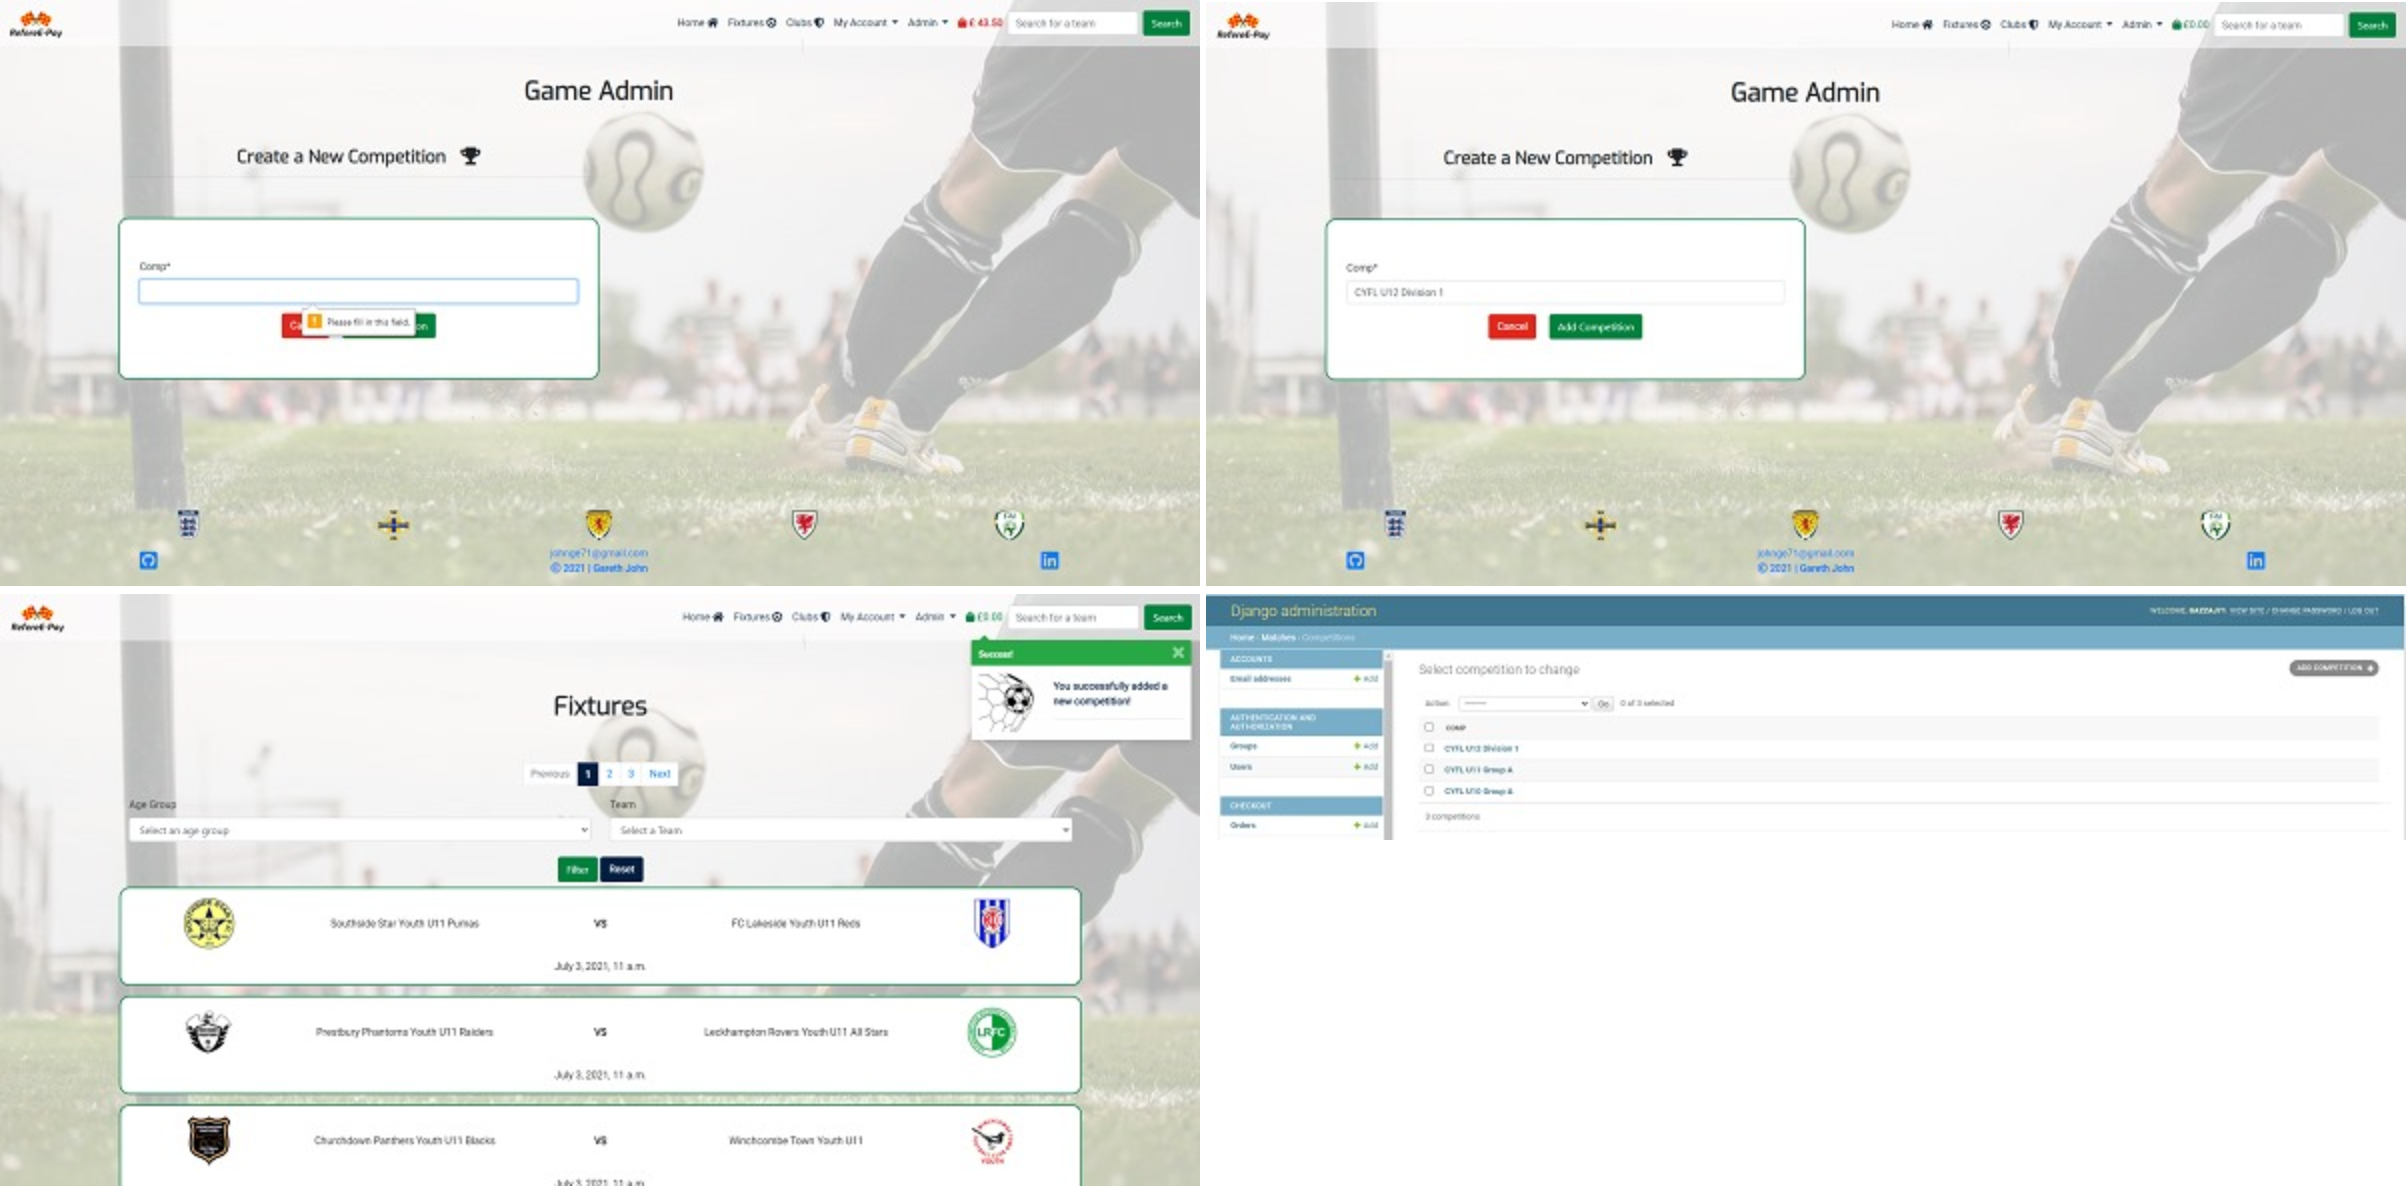
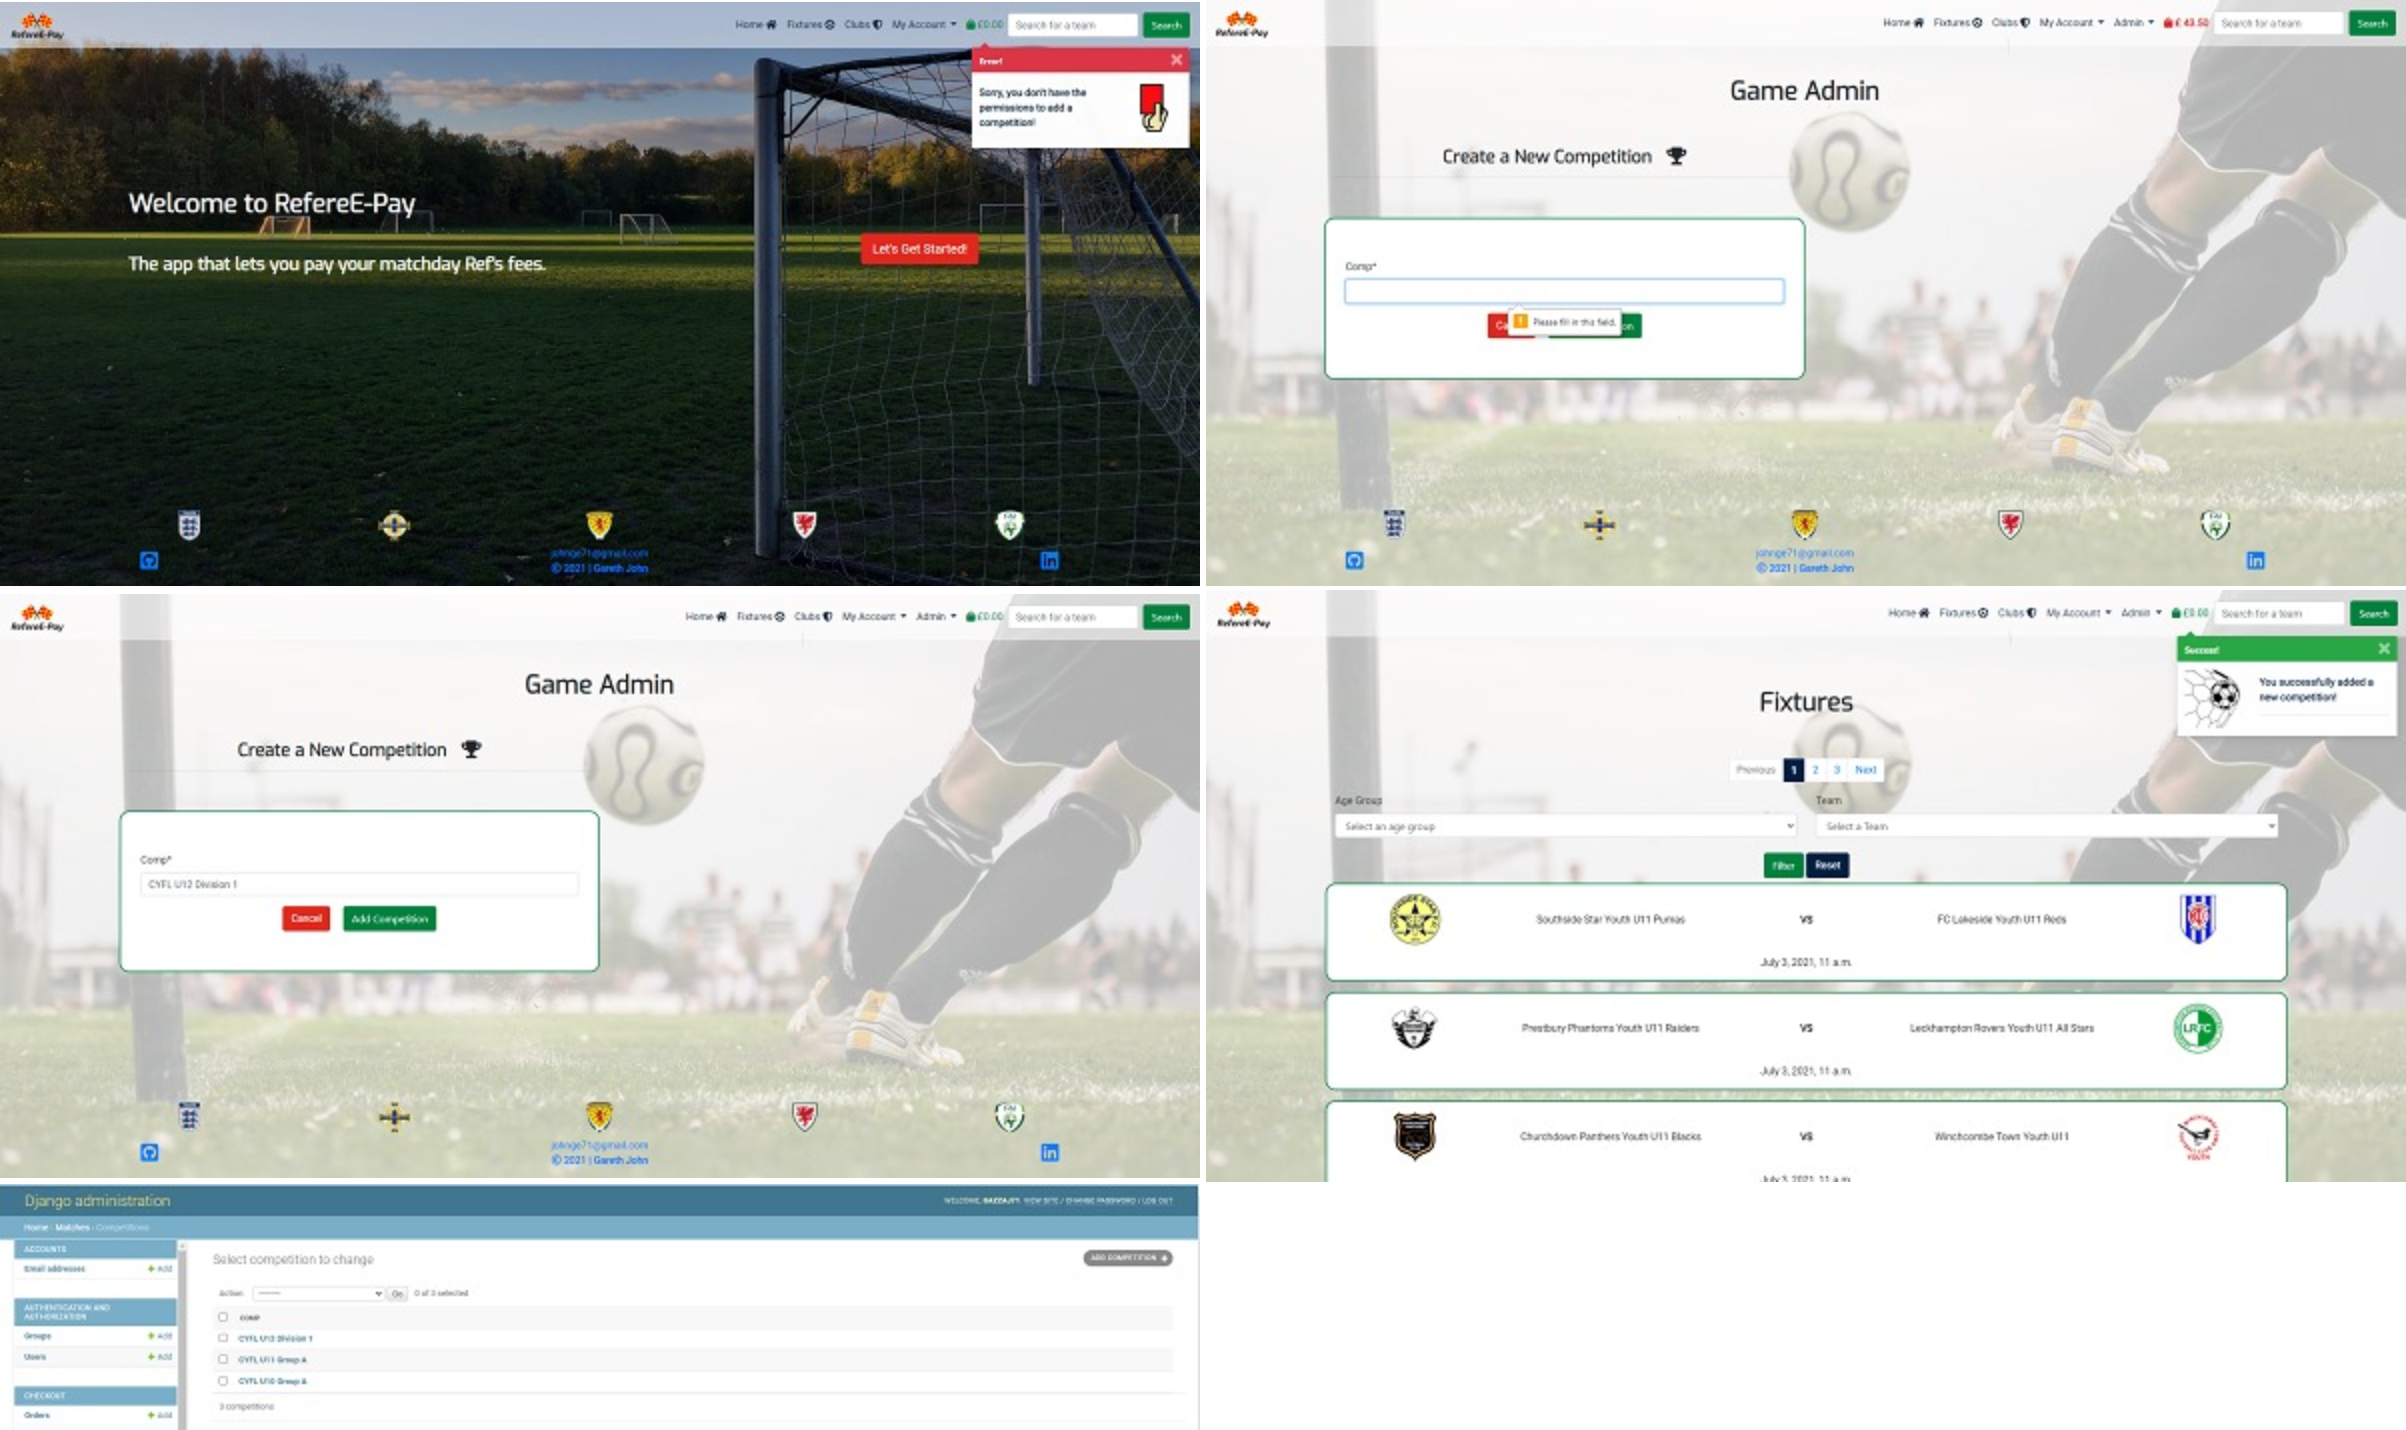
Add improved functionality testing images

diff --git a/matches/views.py b/matches/views.py
@@ -274,7 +274,7 @@ def add_club(request):
     if not request.user.is_superuser:
         messages.error(request, "Sorry, you don't have the permissions to \
                        add a club!")
-        return redirect(reverse('clubs'))
+        return redirect(reverse('home'))
 
     if request.method == "POST":
         form = ClubForm(request.POST, request.FILES)
@@ -408,7 +408,7 @@ def add_team(request):
     if not request.user.is_superuser:
         messages.error(request, "Sorry, you don't have the permissions to \
                        add a team!")
-        return redirect(reverse('clubs'))
+        return redirect(reverse('home'))
 
     if request.method == "POST":
         form = TeamForm(request.POST)
